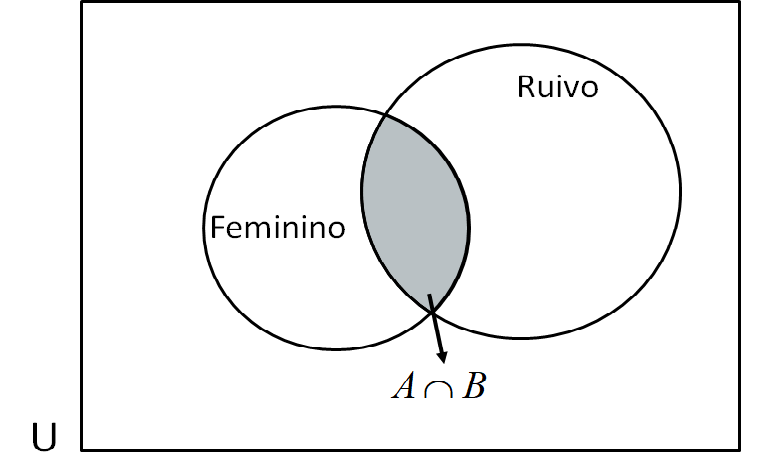
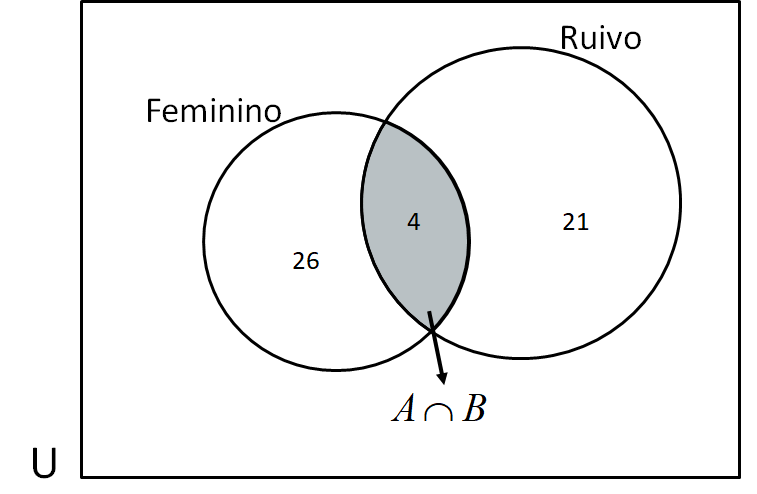
aula 07

diff --git a/slides/Aula07.html b/slides/Aula07.html
@@ -390,11 +390,11 @@ c) Qual a probabilidade do estudante ser do sexo Feminino **e** Ruivo?
 
 ### c) Qual a probabilidade do estudante ser do sexo Feminino **ou** Ruivo?
 
-Ou seja:
+
 
 **R**: `\(P(Feminino \cup Ruivo) = \frac{4}{60} = 0,06667\)`
 
-
+&lt;img src="https://raw.githubusercontent.com/arpanosso/estatinfo/master/slides/img/venn_13.png" width="50%" style="display: block; margin: auto;" /&gt;
     </textarea>
 <style data-target="print-only">@media screen {.remark-slide-container{display:block;}.remark-slide-scaler{box-shadow:none;}}</style>
 <script src="https://remarkjs.com/downloads/remark-latest.min.js"></script>
